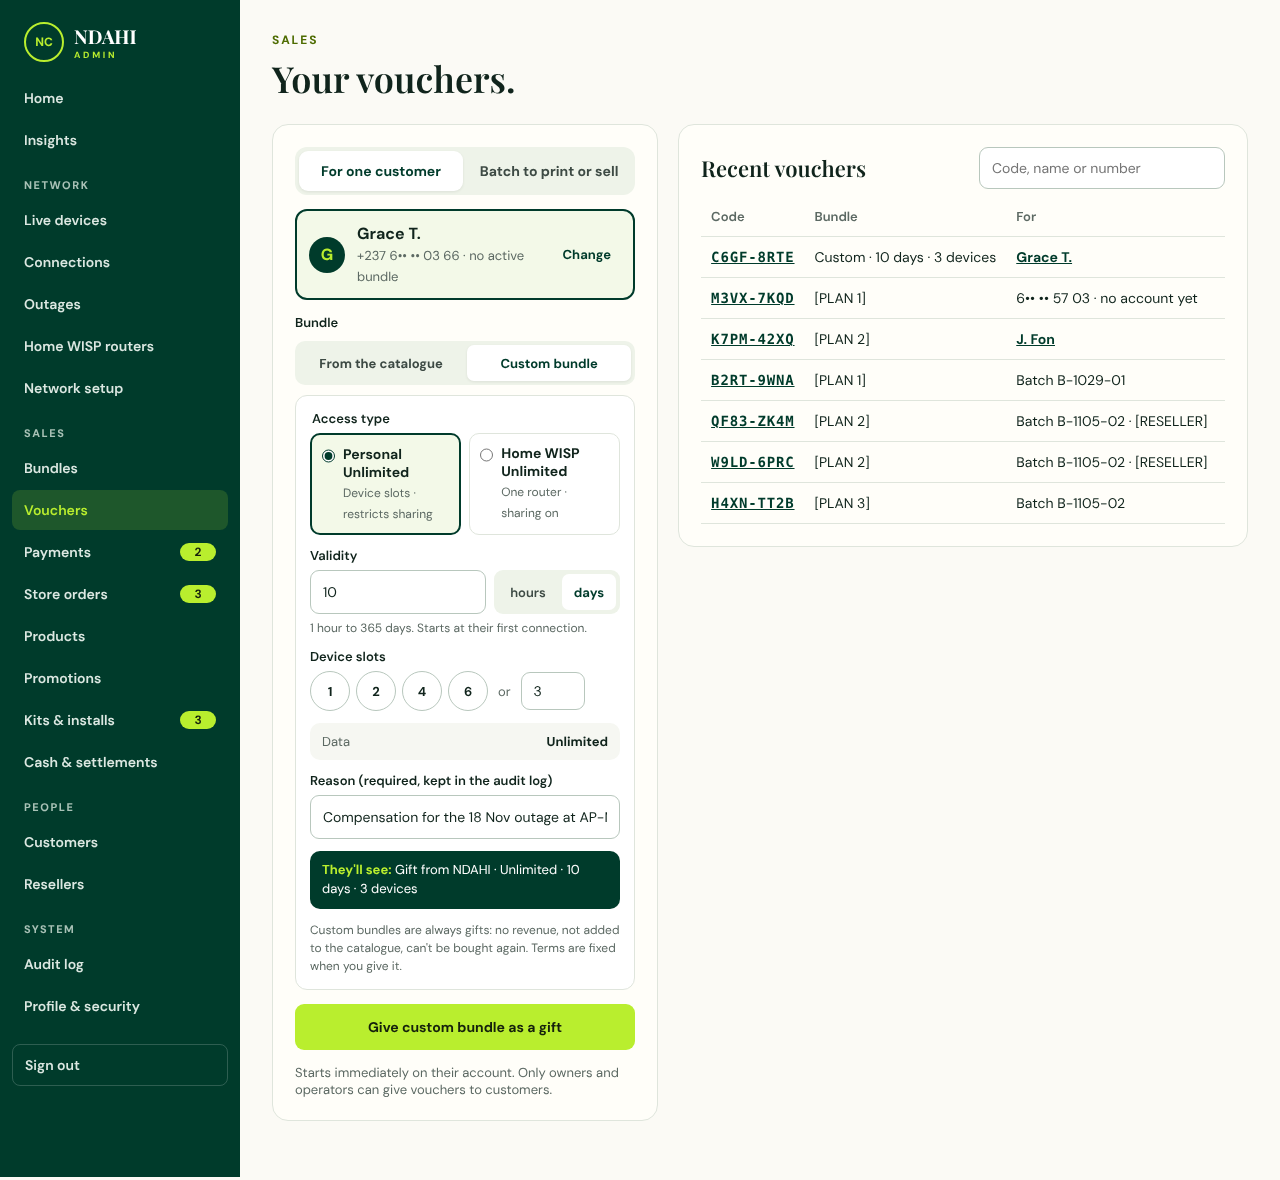
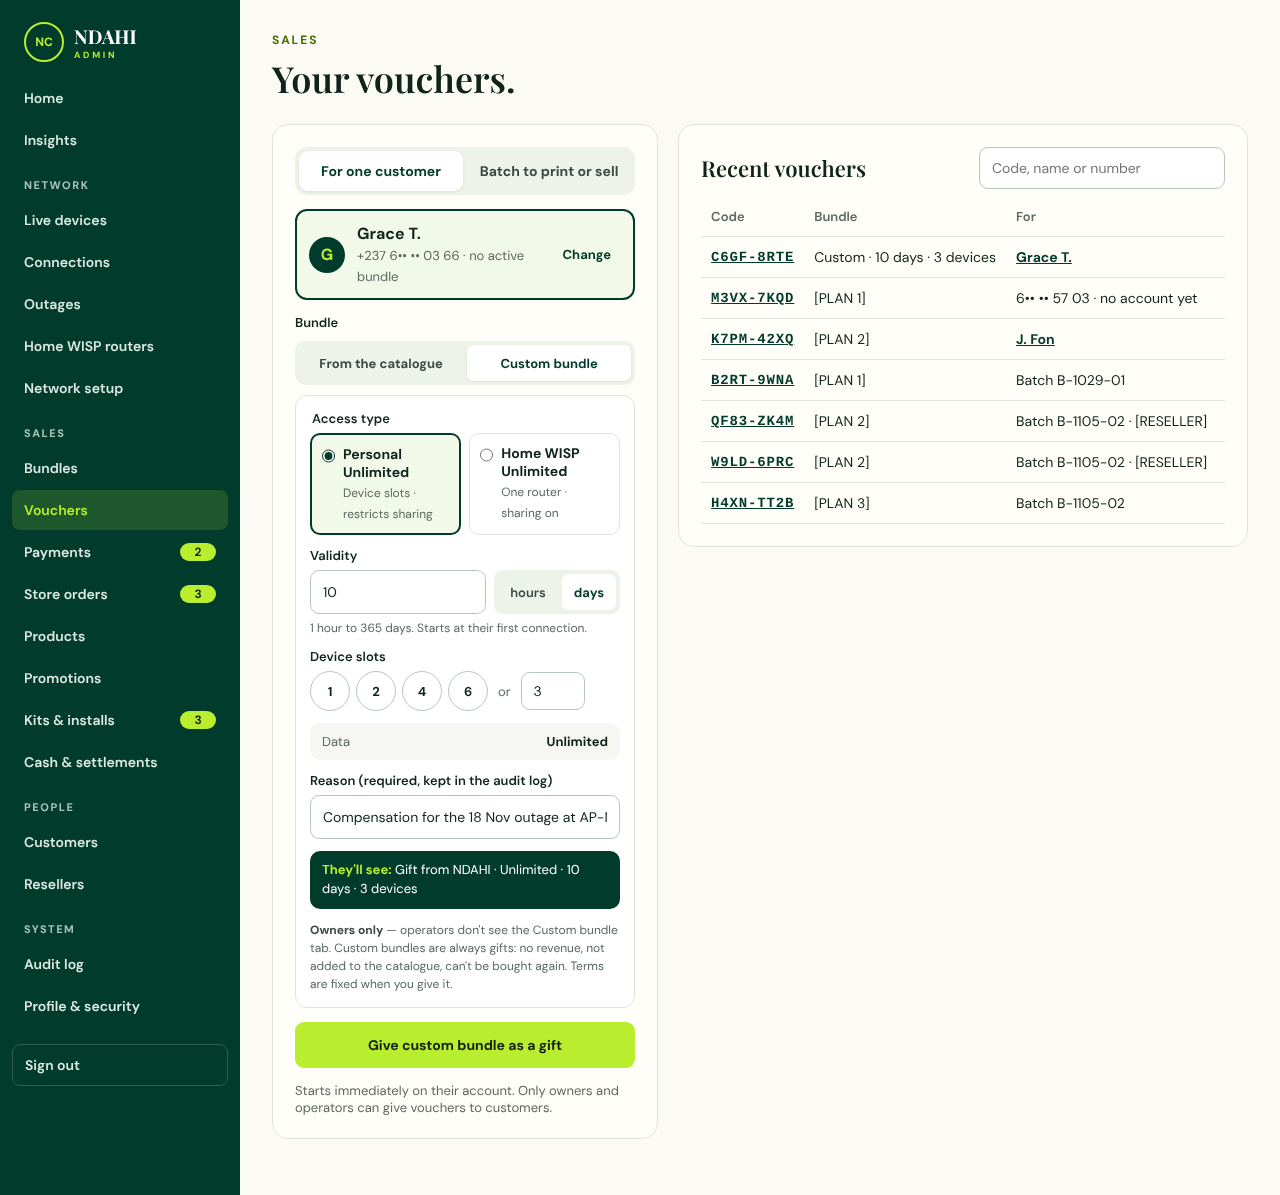
docs(redesign): custom gift bundles are owner-only
Claude-Session: https://claude.ai/code/session_01PeEvdR56ZfPMa6Qo24KpBv

diff --git a/docs/redesign/screens/AdminVouchers.dc.html b/docs/redesign/screens/AdminVouchers.dc.html
@@ -115,7 +115,7 @@ th{color:#5c6963;font-weight:600;font-size:13px}
                           <div style="display: flex; justify-content: space-between; gap: 10px; padding: 10px 12px; border-radius: 10px; background: #f6f7f2; font-size: 13px"><span style="color: #5c6963">Data</span><strong>Unlimited</strong></div>
                           <div><label class="lbl" for="cr2">Reason (required, kept in the audit log)</label><input class="in" id="cr2" value="Compensation for the 18 Nov outage at AP-Market"></div>
                           <p style="margin: 0; padding: 10px 12px; border-radius: 10px; background: #003b2b; color: #ffffff; font-size: 13px; line-height: 1.45"><span style="color: #b9ee2e; font-weight: 700">They'll see:</span> {{customName}}</p>
-                          <p style="margin: 0; color: #5c6963; font-size: 12px; line-height: 1.5">Custom bundles are always gifts: no revenue, not added to the catalogue, can't be bought again. Terms are fixed when you give it.</p>
+                          <p style="margin: 0; color: #5c6963; font-size: 12px; line-height: 1.5"><strong style="color: #3d4a44">Owners only</strong> — operators don't see the Custom bundle tab. Custom bundles are always gifts: no revenue, not added to the catalogue, can't be bought again. Terms are fixed when you give it.</p>
                         </div>
                       </sc-if>
                     </div>
@@ -168,7 +168,7 @@ th{color:#5c6963;font-weight:600;font-size:13px}
                           <div style="display: flex; justify-content: space-between; gap: 10px; padding: 10px 12px; border-radius: 10px; background: #f6f7f2; font-size: 13px"><span style="color: #5c6963">Data</span><strong>Unlimited</strong></div>
                           <div><label class="lbl" for="cr1">Reason (required, kept in the audit log)</label><input class="in" id="cr1" value="Compensation for the 18 Nov outage at AP-Market"></div>
                           <p style="margin: 0; padding: 10px 12px; border-radius: 10px; background: #003b2b; color: #ffffff; font-size: 13px; line-height: 1.45"><span style="color: #b9ee2e; font-weight: 700">They'll see:</span> {{customName}}</p>
-                          <p style="margin: 0; color: #5c6963; font-size: 12px; line-height: 1.5">Custom bundles are always gifts: no revenue, not added to the catalogue, can't be bought again. Terms are fixed when you give it.</p>
+                          <p style="margin: 0; color: #5c6963; font-size: 12px; line-height: 1.5"><strong style="color: #3d4a44">Owners only</strong> — operators don't see the Custom bundle tab. Custom bundles are always gifts: no revenue, not added to the catalogue, can't be bought again. Terms are fixed when you give it.</p>
                         </div>
                       </sc-if>
                     </div>

diff --git a/docs/redesign/decisions.md b/docs/redesign/decisions.md
@@ -180,4 +180,4 @@ Design: `AdminVouchers` → For one customer → Bundle → **Custom bundle** (r
 - **A reason is required** and kept in the audit log.
 - **Always a gift:** no revenue, no price, not added to the catalogue, never shown for sale and can't be bought again. The customer sees "Gift from NDAHI · [terms]".
 - The terms are snapshotted when it's given, exactly like a catalogue voucher: time starts at first connection, slots bind to RouterOS-observed MACs, Home WISP needs router registration. Replacing an active bundle needs the same confirmation as any voucher.
-- Same permission as giving any voucher (owners and operators), enforced by the server, which validates every field.
+- **Owners only** (owner, 23 Nov). Operators can still give catalogue vouchers but don't see the Custom bundle tab, and the server rejects a custom bundle from anyone but an owner. The server validates every field.
